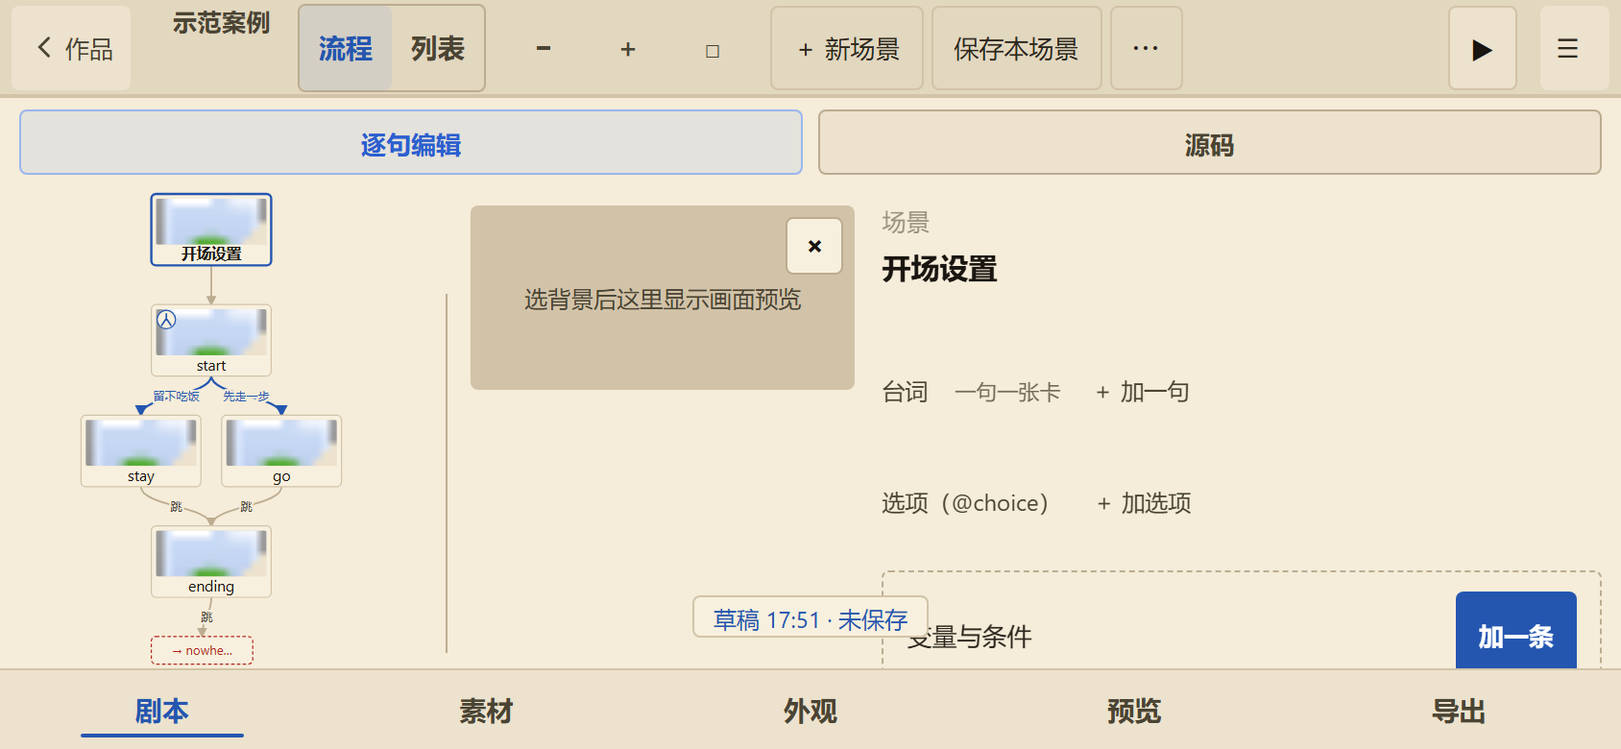
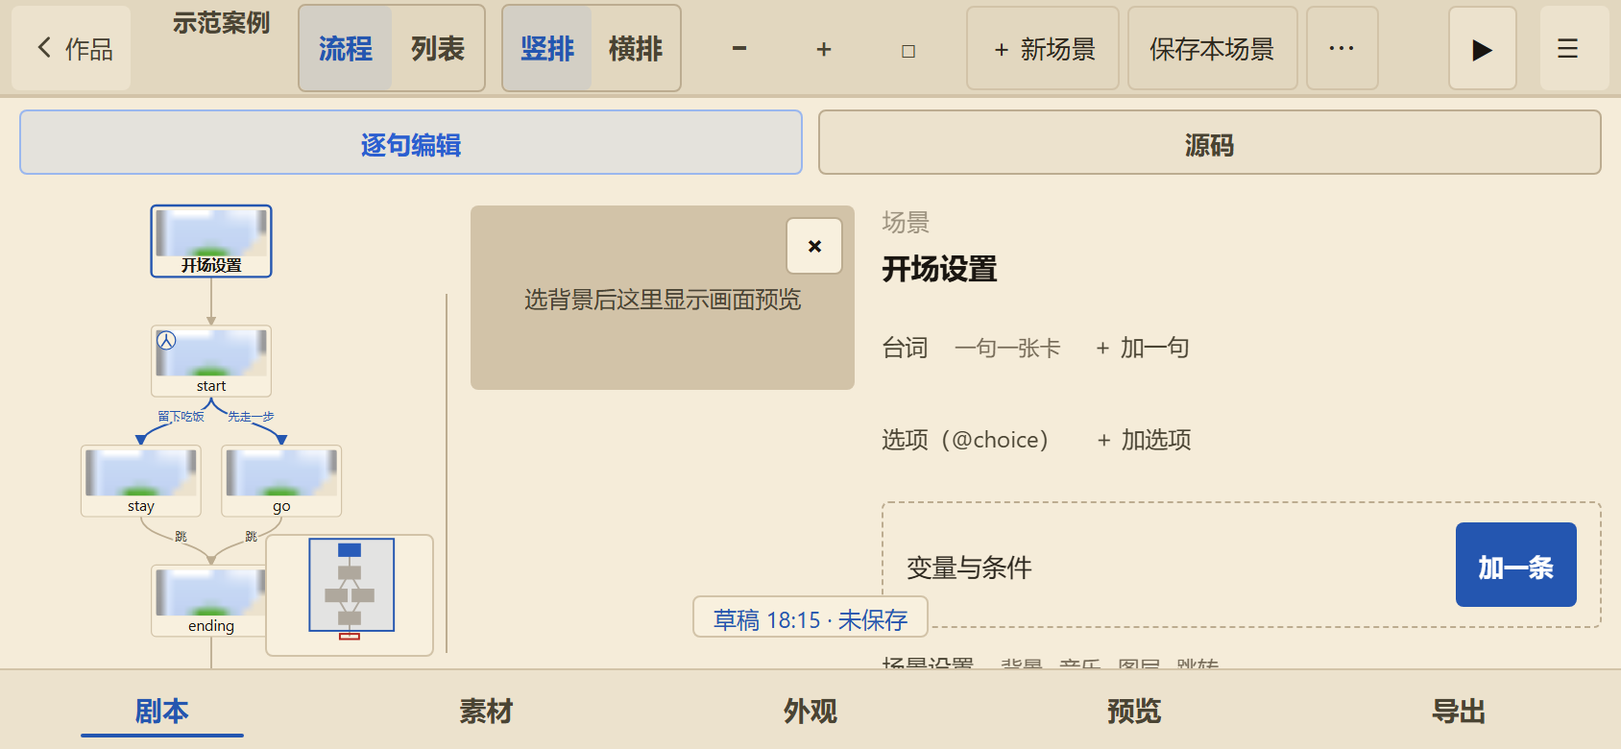
P267 横屏剧本页：流程图可竖排/横排、加右下角小总览、正文行距收紧（v1.2.67）
用户原话：「调整距离，并且蓝图可以竖着可以横着，在再来一个小的总览去寻找」
「甚至可以把做左边的每一个变成横着或竖着的点线图，场景和 start 平行」。

- 方向：仓内 localStorage `myonl:off:graphOri:v1`（=h 才是横排，默认竖排），
  顶栏「竖排｜横排」分段与「流程｜列表」同一套边框/选中态；换方向清缓存重看全局。
- 两轴几何：竖排层往下、同层往右；横排层往右、同层往下。层方向边长与同层步长拆成
  step / pitch 两个量，层距 = rank*(step+LA)；画线改用 al/ac/ll/lc/pt 四个取端口函数。
- 竖排贴顶：graphFit 在竖排时 y 固定 12，第一排节点与右侧「场景」两字齐平。
- 小总览：88×64，右侧下角，先画节点中心连线再画节点块，最后取景框；图整个在栏里
  就不显示；手指落在总览上是导航（把点到的地方挪到栏中央），不算平移主图。
- 正文行距：幕名块 margin-bottom 4px / .sf-sec 6px 0 4px，「台词」区上移 26px。
- 窄横屏（<780）缩放只留「□」，双指/滚轮仍可缩放。

门禁：pytest 1585 passed / 7 skipped / exit 0（144.15s）、pyright 109=基线 exit 0、
探针 26/26 exit 0；844×390 / 700×360 / 390×844 三组尺寸 JS 异常 0、溢出审计空。

diff --git a/editor/mobile/ui_layout.js b/editor/mobile/ui_layout.js
@@ -191,14 +191,17 @@
      节点 = 一幕（上半截是这一幕的背景缩略图），线 = @jump / 选项 / 没写跳转时顺序流到下一幕；
      分支横向并排、汇合画回同一个节点、跳回前面幕的线是虚线，跳到不存在的幕是红虚线小块。
      点节点 = 进那一幕；拖动平移、双指缩放、「□」看全局。数据每次从正文现读，不另存一份。 */
-  var VIEW = "myonl:off:sceneView:v1", NW = 104, NH = 62, GW = 88, GH = 24, GX = 18, GY = 34;
+  var VIEW = "myonl:off:sceneView:v1", ORI = "myonl:off:graphOri:v1", MW = 88, MH = 64;
+  var NW = 104, NH = 62, GW = 88, GH = 24, GX = 18, GY = 42;   // GY：竖排层间距，42 是给线上的字留的
   var gT = { x: 0, y: 0, z: 1 }, gSig = "", gCount = -1, gD = null, gSvg = null, gAct = -1;
-  var gPtr = {}, gDist = 0, gPinch = 0, gDown = null;
+  var gPtr = {}, gDist = 0, gPinch = 0, gDown = null, gMini = { s: 1, ox: 0, oy: 0 };
   function escG(s) { return String(s).replace(/[&<>"]/g, function (c) { return { "&": "&amp;", "<": "&lt;", ">": "&gt;", '"': "&quot;" }[c]; }); }
   function cut(s, n) { s = String(s); return s.length > n ? s.slice(0, n - 1) + "\u2026" : s; }
   function own(o, k) { return Object.prototype.hasOwnProperty.call(o, k); }
   function graphOn() { try { return localStorage.getItem(VIEW) !== "list"; } catch (e) { return true; } }
   function graphSplit() { return shell() && window.innerWidth >= 700 && window.innerWidth > window.innerHeight; }
+  // 蓝图可以竖着走也可以横着走（用户：「蓝图可以竖着可以横着」）：默认竖排 = 层往下、同层往右；横排 = 层往右、同层往下
+  function graphHori() { try { return localStorage.getItem(ORI) === "h"; } catch (e) { return false; } }
 
   function graphData() {
     var E = window.__editor || {}, src = "";
@@ -257,10 +260,16 @@
       cnt[r] = ids.length; cw = Math.max(cw, ids.length);
       ids.forEach(function (a, c) { col[a] = c; });
     }
-    var w = cw * (NW + GX) - GX, hsh = 0;
+    var H = graphHori(), LA = H ? 56 : GY, pitch = H ? NH : NW, step = H ? NW : NH;   // LA：层间距（横排留大些给线上的字）；pitch：同层步长的边长，step：层方向上的边长
+    var w = H ? maxR * (NW + LA) + NW : cw * (NW + GX) - GX, hsh = 0;
     for (i = 0; i < src.length; i++) hsh = (hsh * 31 + src.charCodeAt(i)) | 0;
-    all.forEach(function (n, a) { n.x = (w - (cnt[rank[a]] * (NW + GX) - GX)) / 2 + col[a] * (NW + GX); n.y = rank[a] * (NH + GY); });
-    return { all: all, edges: edges, w: w, h: (maxR + 1) * NH + maxR * GY, sig: ns.length + "|" + edges.length + "|" + hsh };
+    all.forEach(function (n, a) {
+      var gw = n.ghost ? GW : NW, gh = n.ghost ? GH : NH, major = rank[a] * (step + LA);
+      var minor = (cw * (pitch + GX) - GX - (cnt[rank[a]] * (pitch + GX) - GX)) / 2 + col[a] * (pitch + GX);
+      n.x = H ? major : minor + (NW - gw) / 2; n.y = H ? minor + (NH - gh) / 2 : major;
+    });
+    return { all: all, edges: edges, w: w, h: H ? cw * (NH + GX) - GX : maxR * (NH + GY) + NH, hori: H,
+             sig: ns.length + "|" + edges.length + "|" + hsh + "|" + (H ? "h" : "v") };
   }
 
   function applyT() {
@@ -269,12 +278,29 @@
     gT.x = Math.min(Math.max(gT.x, 44 - gD.w * gT.z), W - 44);   // 怎么拖都至少留 44px 图在栏里
     gT.y = Math.min(Math.max(gT.y, 44 - gD.h * gT.z), H - 44);
     gSvg.setAttribute("transform", "translate(" + gT.x + "," + gT.y + ") scale(" + gT.z + ")");
+    var mv = document.getElementById("mMiniV"), mm = mv && mv.parentNode;
+    // 图整个都在栏里时不显示小总览；放大或拖走了才出来，框告诉你现在看的是哪一块
+    if (mm) mm.style.display = (gD.w * gT.z > W + 1 || gD.h * gT.z > H + 1) ? "" : "none";
+    if (mv) {
+      mv.setAttribute("x", gMini.ox - gT.x / gT.z * gMini.s); mv.setAttribute("y", gMini.oy - gT.y / gT.z * gMini.s);
+      mv.setAttribute("width", W / gT.z * gMini.s); mv.setAttribute("height", H / gT.z * gMini.s);
+    }
+  }
+  // 在小总览上点 / 拖：点的那个位置挪到栏中央
+  function miniNav(e) {
+    var m = document.getElementById("mMini"), box = document.getElementById("mGraph");
+    if (!m || !box || !gD) return;
+    var r = m.getBoundingClientRect(), s = gMini.s;
+    gT.x = box.clientWidth / 2 - (e.clientX - r.left - gMini.ox) / s * gT.z;
+    gT.y = box.clientHeight / 2 - (e.clientY - r.top - gMini.oy) / s * gT.z; applyT();
   }
   function graphFit() {
     if (!gD) return;
     var box = document.getElementById("mGraph"), W = box.clientWidth - 12, H = box.clientHeight - 12;
     gT.z = Math.max(0.6, Math.min(1, W / gD.w, H / gD.h));       // 不小于 0.6：再小字就看不清了，宁可拖着看
-    gT.x = Math.max(6, (W - gD.w * gT.z) / 2); gT.y = Math.max(6, (H - gD.h * gT.z) / 2);
+    // 竖排：第一排节点贴顶，跟右边正文的「场景」两个字同一水平线（用户：「场景和 start 平行」）；横排：第一列贴左
+    gT.x = gD.hori ? 12 : Math.max(6, (W - gD.w * gT.z) / 2);
+    gT.y = gD.hori ? Math.max(6, (H - gD.h * gT.z) / 2) : 12;
     applyT();
   }
   function zoomAt(px, py, f) {
@@ -292,23 +318,30 @@
     gSig = d.sig + "|" + gAct; gD = d;
     var W = box.clientWidth, H = box.clientHeight; if (!W || !H) return;
     var E = window.__editor || {}, act = gAct, h = [];
+    var H = d.hori;   // 「层方向」= 竖排的 y / 横排的 x；「横方向」= 另一个。下面的函数都按这两个轴说话
+    function al(n) { return H ? n.x : n.y; }                                   // 层方向起点
+    function ac(n) { return H ? n.y : n.x; }                                   // 横方向起点
+    function ll(n) { return n.ghost ? (H ? GW : GH) : (H ? NW : NH); }          // 层方向长度
+    function lc(n) { return n.ghost ? (H ? GH : GW) : (H ? NH : NW); }          // 横方向长度
+    function pt(a, b) { return H ? a + " " + b : b + " " + a; }
     var mk = 'viewBox="0 0 6 6" refX="5" refY="3" markerWidth="6" markerHeight="6" orient="auto"><path d="M0 0L6 3L0 6z"/></marker>';
     h.push('<svg><defs><marker id="mga" ' + mk + '<marker id="mgb" ' + mk +
       '<clipPath id="mgc"><rect x="4" y="4" width="96" height="40" rx="2"/></clipPath></defs><g id="mGraphView">');
     d.edges.forEach(function (e) {
-      var a = d.all[e.from], b = d.all[e.to], bw = b.ghost ? GW : NW, bh = b.ghost ? GH : NH, p;
-      var lx, ly, an = "middle";   // 线上的字：选项写选项原文，@jump 写「跳」，顺序流不写字
-      if (e.back) {   // 跳回前面：从源头右腰绕出去，落回目标右腰
-        var sx = a.x + NW, sy = a.y + NH / 2, ex = b.x + bw, ey = b.y + bh / 2;
-        p = "M" + sx + " " + sy + "C" + (sx + 36) + " " + sy + " " + (ex + 36) + " " + ey + " " + ex + " " + ey;
-        lx = (sx + ex) / 2 + 20; ly = (sy + ey) / 2 + 4;
+      var a = d.all[e.from], b = d.all[e.to], p, l1, l2, an = "middle";
+      // 线上的字：选项写选项原文，@jump 写「跳」，顺序流不写字
+      if (e.back) {   // 跳回前面：从源头外侧绕出去，落回目标外侧
+        var s1 = al(a) + ll(a) / 2, s2 = ac(a) + lc(a), e1 = al(b) + ll(b) / 2, e2 = ac(b) + lc(b), bu = 36;
+        p = "M" + pt(s1, s2) + "C" + pt(s1, s2 + bu) + " " + pt(e1, e2 + bu) + " " + pt(e1, e2);
+        l1 = (s1 + e1) / 2; l2 = (s2 + e2) / 2 + bu * 0.86;
       } else {
-        var x1 = a.x + NW / 2, y1 = a.y + NH, x2 = b.x + bw / 2, y2 = b.y, my = (y1 + y2) / 2;
-        p = "M" + x1 + " " + y1 + "C" + x1 + " " + my + " " + x2 + " " + my + " " + x2 + " " + y2;
-        // 上下正对着的两个节点，字写在箭头右边（写在线上会盖住箭头）；分叉的线写在线的中点
-        if (Math.abs(x1 - x2) < 2) { lx = x1 + 5; an = "start"; } else lx = (x1 + x2) / 2;
-        ly = my + 4;
+        var f1 = al(a) + ll(a), f2 = ac(a) + lc(a) / 2, t1 = al(b), t2 = ac(b) + lc(b) / 2, mm = (f1 + t1) / 2;
+        p = "M" + pt(f1, f2) + "C" + pt(mm, f2) + " " + pt(mm, t2) + " " + pt(t1, t2);
+        // 正对着的两个节点：字写在线的下 / 右侧（写在线上会盖住箭头）；分叉的线写在线的中点
+        if (Math.abs(f2 - t2) < 2) { l1 = H ? mm : f2 + 5; l2 = H ? f2 + 14 : mm + 4; if (!H) an = "start"; }
+        else { l1 = mm; l2 = (f2 + t2) / 2 + 4; }
       }
+      var lx = H ? l1 : l2, ly = H ? l2 : l1;
       h.push('<path class="m-ge ' + e.k + (e.back ? " back" : "") + '" d="' + p + '" marker-end="url(#' + (e.k === "choice" ? "mgb" : "mga") + ')"/>' +
         (e.txt && !e.back ? '<text class="m-gel ' + e.k + '" x="' + lx + '" y="' + ly + '" text-anchor="' + an + '">' + escG(cut(e.txt, 6)) + "</text>" : "") +
         (e.back ? '<text class="m-gel back" x="' + lx + '" y="' + ly + '" text-anchor="middle">' + escG(cut(e.txt || "", 4)) + "</text>" : ""));
@@ -329,6 +362,19 @@
         (n.choice ? '<circle class="m-gn-fork" cx="13" cy="13" r="8"/><path class="m-gn-forkp" d="M13 8v4M9 18l4-6M17 18l-4-6"/>' : "") + "</g>");
     });
     h.push("</g></svg>");
+    // 小总览（用户：「再来一个小的总览去寻找」）：整张图缩成一块，只画节点块 + 一个取景框；点上头就把视图挪过去
+    gMini.s = Math.max(0.04, Math.min((MW - 8) / d.w, (MH - 8) / d.h, 1)); gMini.ox = (MW - d.w * gMini.s) / 2; gMini.oy = (MH - d.h * gMini.s) / 2;
+    h.push('<svg id="mMini" viewBox="0 0 ' + MW + " " + MH + '" aria-label="总览">');
+    d.edges.forEach(function (e) {   // 先画线：小总览里也要看得出谁连着谁（点线图）
+      var a = d.all[e.from], b = d.all[e.to], x1 = gMini.ox + (a.x + NW / 2) * gMini.s, y1 = gMini.oy + (a.y + NH / 2) * gMini.s;
+      var x2 = gMini.ox + (b.x + (b.ghost ? GW : NW) / 2) * gMini.s, y2 = gMini.oy + (b.y + (b.ghost ? GH : NH) / 2) * gMini.s;
+      h.push('<line class="mm-e' + (e.back ? " back" : "") + '" x1="' + x1.toFixed(1) + '" y1="' + y1.toFixed(1) + '" x2="' + x2.toFixed(1) + '" y2="' + y2.toFixed(1) + '"/>');
+    });
+    d.all.forEach(function (n, a) {
+      h.push('<rect class="mm-n' + (a === act ? " on" : "") + (n.ghost ? " ghost" : "") + '" x="' + (gMini.ox + n.x * gMini.s).toFixed(1) +
+        '" y="' + (gMini.oy + n.y * gMini.s).toFixed(1) + '" width="' + ((n.ghost ? GW : NW) * gMini.s).toFixed(1) + '" height="' + ((n.ghost ? GH : NH) * gMini.s).toFixed(1) + '"/>');
+    });
+    h.push('<rect id="mMiniV"/></svg>');
     box.innerHTML = h.join(""); gSvg = box.querySelector("#mGraphView");
     if (gCount !== d.all.length) graphFit(); else applyT();   // 幕数变了才重新看全局，改台词不抢视角
     gCount = d.all.length;
@@ -346,7 +392,8 @@
   function bindGraph(box) {
     box.addEventListener("pointerdown", function (e) {
       if (e.button > 0) return;
-      gPtr[e.pointerId] = [e.clientX, e.clientY];
+      var onMini = !!(e.target.closest && e.target.closest("#mMini"));
+      gPtr[e.pointerId] = onMini ? [-1e6, -1e6] : [e.clientX, e.clientY];
       try { box.setPointerCapture(e.pointerId); } catch (err) {}
       if (Object.keys(gPtr).length === 1) { gDist = 0; gDown = e.target.closest ? e.target.closest(".m-gn[data-i]") : null; }
       else { gPinch = 0; gDown = null; gDist = 99; }
@@ -354,6 +401,7 @@
     });
     box.addEventListener("pointermove", function (e) {
       var p = gPtr[e.pointerId]; if (!p) return;
+      if (p[0] < -1e5) { miniNav(e); return; }   // 这根手指在小总览上
       var dx = e.clientX - p[0], dy = e.clientY - p[1], ks = Object.keys(gPtr), r = box.getBoundingClientRect();
       gPtr[e.pointerId] = [e.clientX, e.clientY];
       if (ks.length >= 2) {
@@ -378,7 +426,7 @@
     }, { passive: false });
   }
 
-  // 场景页头的「流程 | 列表」与缩放三颗，只建一次
+  // 场景页头的「流程 | 列表」「竖排 | 横排」与缩放三颗，只建一次
   function graphBar(p, on) {
     var head = p.querySelector(".cp-head"), add = document.getElementById("sceneAdd");
     if (!head || !add) return;
@@ -386,11 +434,14 @@
     if (!bar) {
       bar = document.createElement("div"); bar.id = "mGraphBar";
       bar.innerHTML = '<div class="m-gmodes"><button type="button" data-m="graph">流程</button><button type="button" data-m="list">列表</button></div>' +
+        '<div class="m-gori"><button type="button" data-o="v" aria-label="竖排">竖排</button><button type="button" data-o="h" aria-label="横排">横排</button></div>' +
         '<div class="m-gzoom"><button type="button" data-z="-" aria-label="缩小">−</button><button type="button" data-z="+" aria-label="放大">＋</button><button type="button" data-z="fit" aria-label="看全局">□</button></div>';
       bar.addEventListener("click", function (e) {
         var b = e.target.closest ? e.target.closest("button") : null; if (!b) return;
         var m = b.getAttribute("data-m");
         if (m) { try { localStorage.setItem(VIEW, m); } catch (err) {} graphSync(); return; }
+        var o = b.getAttribute("data-o");
+        if (o) { try { localStorage.setItem(ORI, o); } catch (err) {} gSig = ""; gCount = -1; renderGraph(); return; }   // 换方向 = 重新看全局
         var box = document.getElementById("mGraph"); if (!box) return;
         if (b.getAttribute("data-z") === "fit") graphFit();
         else zoomAt(box.clientWidth / 2, box.clientHeight / 2, b.getAttribute("data-z") === "+" ? 1.25 : 0.8);
@@ -398,6 +449,7 @@
       head.insertBefore(bar, add);
     }
     Array.prototype.forEach.call(bar.querySelectorAll("[data-m]"), function (b) { b.classList.toggle("on", (b.getAttribute("data-m") === "graph") === on); });
+    Array.prototype.forEach.call(bar.querySelectorAll("[data-o]"), function (b) { b.classList.toggle("on", (b.getAttribute("data-o") === "h") === graphHori()); });
   }
 
   function graphSync() {

diff --git a/editor/editor.css b/editor/editor.css
@@ -3019,7 +3019,11 @@ input[type="color"] {
   }
   html.m-shell .menubar > #mGraphBar { margin-right: 4px; }
   html.m-shell.m-chrome-on #scenePage .scn-pop { top: 6px; }
-  @media (max-width: 779px) { html.m-shell.m-chrome-on .m-gzoom [data-z="-"] { display: none; } }
+  /* 窄横屏顶栏放不下：缩放只留「□」（双指 / 滚轮仍可缩放） */
+  @media (max-width: 779px) { html.m-shell.m-chrome-on .m-gzoom [data-z="-"], html.m-shell.m-chrome-on .m-gzoom [data-z="+"] { display: none; } }
+  /* 正文行距收紧（用户：「调整距离」）：幕名与「台词」之间原来空 47px（14 + 8 + 13 + 12），横屏高度金贵 */
+  html.m-shell #scenePage .sf-scene { margin-bottom: 4px; padding-bottom: 2px; }
+  html.m-shell #scenePage .sf-sec { margin: 6px 0 4px; }
   /* 预览收起：左栏留 34px 窄条点回来，编辑独占其余宽度 */
   html.m-shell.m-stage-off #scenePage.m-detail #sceneForm { grid-template-columns: 34px minmax(0, 1fr) !important; }
   html.m-shell.m-stage-off #scenePage .sf-stage-wrap { position: relative !important; align-self: start !important; height: 96px; min-height: 0; padding: 0 !important; border-right: 1px solid var(--surface1); background: none !important; }
@@ -3033,10 +3037,15 @@ input[type="color"] {
   html.m-shell .scene-page .scene-body { position: relative; }
   html.m-shell #mGraphBar { display: flex; align-items: center; gap: 8px; }
   #mGraphBar button { height: 44px; min-width: 44px; padding: 0 9px; border: 0; border-radius: 4px; background: none; color: var(--subtext0); font-size: 14px; font-weight: 600; white-space: nowrap; }
-  #mGraphBar .m-gmodes { display: flex; border: 1px solid var(--surface1); border-radius: 4px; overflow: hidden; }
-  #mGraphBar .m-gmodes button { min-width: 48px; }
-  #mGraphBar .m-gmodes button.on { background: rgba(79, 140, 255, .1); color: var(--blue-ink); }
-  html.m-shell:not(.m-graph-on) #mGraphBar .m-gzoom { display: none; }
+  #mGraphBar .m-gmodes, #mGraphBar .m-gori { display: flex; border: 1px solid var(--surface1); border-radius: 4px; overflow: hidden; }
+  #mGraphBar .m-gmodes button { min-width: 48px; } #mGraphBar .m-gori button { min-width: 40px; }
+  #mGraphBar .m-gmodes button.on, #mGraphBar .m-gori button.on { background: rgba(79, 140, 255, .1); color: var(--blue-ink); }
+  html.m-shell:not(.m-graph-on) #mGraphBar .m-gzoom, html.m-shell:not(.m-graph-on) #mGraphBar .m-gori { display: none; }
+  /* 小总览：右下角一块，图没放大时不出 */
+  #mGraph #mMini { position: absolute; right: 6px; bottom: 6px; width: 88px; height: 64px; background: var(--card-bg); border: 1px solid var(--surface0); border-radius: 4px; }
+  #mGraph #mMini .mm-e { stroke: var(--surface1); stroke-width: 1; } #mGraph #mMini .mm-e.back { stroke-dasharray: 2 2; }
+  #mGraph #mMini .mm-n { fill: var(--surface1); } #mGraph #mMini .mm-n.on { fill: var(--blue-ink); }
+  #mGraph #mMini .mm-n.ghost { fill: none; stroke: var(--red); stroke-width: 1; } #mGraph #mMini #mMiniV { fill: rgba(79, 140, 255, .12); stroke: var(--blue-ink); stroke-width: 1; }
   html.m-shell.m-graph-on #mGraph { position: absolute; z-index: 5; left: 0; top: 0; display: block; width: var(--m-rail, 232px); height: 100%; overflow: hidden; background: var(--base); touch-action: none; }
   #mGraph svg { display: block; width: 100%; height: 100%; } #mGraph .m-gn { cursor: pointer; }
   #mGraph .m-ge { fill: none; stroke: var(--surface1); stroke-width: 1.5; } #mGraph .m-ge.choice { stroke: var(--blue-ink); stroke-width: 1.8; } #mGraph .m-ge.back { stroke-dasharray: 4 3; }

diff --git a/tests/test_p267_graph_ori.py b/tests/test_p267_graph_ori.py
@@ -1,0 +1,69 @@
+"""P267：流程图能竖排也能横排、右下角小总览、正文行距收紧。
+
+用户原话：「调整距离，并且蓝图可以竖着可以横着，在再来一个小的总览去寻找」「暂时只测试升级打包」。
+
+钉住的事（844×390 实测）：
+    1. 方向记在 localStorage（=h 才是横排），换方向重新看全局；
+    2. 竖排：层往下、同层往右；横排：层往右、同层往下。画线按「层方向 / 横方向」两个轴说话，不许再写死 x/y；
+    3. 小总览跟主图一起生成，图整个在栏里时不显示；手指落在总览上是导航，不是平移主图；
+    4. 幕名到「台词」之间收紧；窄横屏（<780）缩放只留「□」。
+"""
+
+from pathlib import Path
+
+import pytest
+
+pytestmark = [pytest.mark.unit]
+
+ROOT = Path(__file__).resolve().parents[1]
+CSS = (ROOT / "editor" / "editor.css").read_text(encoding="utf-8")
+LAYOUT = (ROOT / "editor" / "mobile" / "ui_layout.js").read_text(encoding="utf-8")
+
+
+def _block() -> str:
+    start = CSS.index("/* 横屏（≥700 宽）剧本页")
+    end = CSS.index("\n}\n", start) + 2
+    return CSS[start:end]
+
+
+def test_orientation_is_remembered_and_refits():
+    assert 'ORI = "myonl:off:graphOri:v1", MW = 88, MH = 64;' in LAYOUT
+    assert 'return localStorage.getItem(ORI) === "h";' in LAYOUT
+    assert "if (o) { try { localStorage.setItem(ORI, o); } catch (err) {} gSig = \"\"; gCount = -1; renderGraph(); return; }" in LAYOUT
+    assert 'data-o="v" aria-label="竖排">竖排</button><button type="button" data-o="h" aria-label="横排">横排</button>' in LAYOUT
+
+
+def test_layout_and_edges_speak_in_two_axes():
+    # 落点：竖排层往下 / 横排层往右
+    assert "n.x = H ? major : minor + (NW - gw) / 2; n.y = H ? minor + (NH - gh) / 2 : major;" in LAYOUT
+    assert "major = rank[a] * (step + LA)" in LAYOUT
+    # 画线：四个取端口函数按方向换轴，不许再出现写死的 a.x + NW
+    assert "function al(n) { return H ? n.x : n.y; }" in LAYOUT
+    assert "function ac(n) { return H ? n.y : n.x; }" in LAYOUT
+    assert "function pt(a, b) { return H ? a + \" \" + b : b + \" \" + a; }" in LAYOUT
+    assert "var lx = H ? l1 : l2, ly = H ? l2 : l1;" in LAYOUT
+    # 小总览里的 node 中心可以写 a.x + NW / 2（那是按主图坐标算缩略，不归这条管）
+    main = LAYOUT[: LAYOUT.index("h.push('<svg id=\"mMini\"")]
+    assert "a.x + NW" not in main
+
+
+def test_minimap_built_with_graph_and_navigates():
+    assert "h.push('<svg id=\"mMini\" viewBox=\"0 0 ' + MW + \" \" + MH" in LAYOUT
+    assert '<rect id="mMiniV"/></svg>' in LAYOUT
+    # 图整个在栏里不显示；取景框跟着视图走
+    assert 'mm.style.display = (gD.w * gT.z > W + 1 || gD.h * gT.z > H + 1) ? "" : "none";' in LAYOUT
+    assert "function miniNav(e)" in LAYOUT
+    assert "if (p[0] < -1e5) { miniNav(e); return; }" in LAYOUT
+    assert 'var onMini = !!(e.target.closest && e.target.closest("#mMini"));' in LAYOUT
+    b = _block()
+    assert "#mGraph #mMini { position: absolute; right: 6px; bottom: 6px; width: 88px; height: 64px;" in b
+    assert "#mGraph #mMini #mMiniV {" in b
+
+
+def test_spacing_rules():
+    b = _block()
+    # 正文行距：幕名与「台词」之间收紧
+    assert "html.m-shell #scenePage .sf-scene { margin-bottom: 4px; padding-bottom: 2px; }" in b
+    assert "html.m-shell #scenePage .sf-sec { margin: 6px 0 4px; }" in b
+    # 窄横屏顶栏放不下：缩放只留「□」
+    assert "html.m-shell.m-chrome-on .m-gzoom [data-z=\"-\"], html.m-shell.m-chrome-on .m-gzoom [data-z=\"+\"] { display: none; }" in b

diff --git a/tests/test_p173_file_budget.py b/tests/test_p173_file_budget.py
@@ -53,7 +53,7 @@ FILE_BUDGET: dict[str, int] = {
     "editor/editor_shell.js": 900,   # P197b 底栏「导出」收成导出页 + 素材先关覆盖层 +9（874→883）；P258 say() 加兜底提示条 +10（887→897）——单文件版没有 window.toast，菜单里的导出提示原本全部静默
     "editor/mobile/ui_polish.js": 548,   # P188 主链路收口 + P189 结构两层（模式槽/预览浮条/空态合成/外观入口）+ P190 场景页时序兜底（场景列表重扫 + 空态恢复 + 空舞台占位 + 重扫不弹 toast）；P194 移进 mobile/，路径随搬迁改
     "editor/ui-fix.css": 325,     # P186 手机外壳 + P188 主链路样式 + P189 结构两层（浮条/场景 order/外观预览置顶）+ P190 空舞台占位（宽度显式给，否则 padding 撑高的舞台会塌成 0），新文件
-    "editor/editor.css": 3432,   # P265 流程图样式 / 预览顶边齐平 / 场景页头并进顶栏 +41；P264 横屏把预览挪到左、左栏宽度走 --m-rail、预览收起条 +12   # P179 首页去大卡后布局收口 +5；P185 顶部安全带（挖孔/侧边 cutout）+18；P190 +25 手机场景两态真正分开（#sceneForm 的 id 级 display 压过 class 级 none）+ 横屏列表不再被表单挤成 29px + 横屏右侧不留缝
+    "editor/editor.css": 3441,   # P267 小总览 / 竖横排开关 / 正文行距 +8；P265 流程图样式 / 预览顶边齐平 / 场景页头并进顶栏 +41；P264 横屏把预览挪到左、左栏宽度走 --m-rail、预览收起条 +12   # P179 首页去大卡后布局收口 +5；P185 顶部安全带（挖孔/侧边 cutout）+18；P190 +25 手机场景两态真正分开（#sceneForm 的 id 级 display 压过 class 级 none）+ 横屏列表不再被表单挤成 29px + 横屏右侧不留缝
     "engine/editor.py": 3063,   # P199a 加 /editor_lint.js /editor_find.js /i18n.js 三条路由与 serve 方法（+15，3043→3058）；P201 加 /editor_tryplay.js 路由与 _serve_tryplay_js（+5，3058→3063）；P198 新增 /editor_draft.js 路由与 _serve_draft_js（+5，3038→3043）；P184b asset_thumb.js 静态路由 +1；P188 ui_polish.js 路由 +1
     "engine/parser.py": 1080,
 }

diff --git a/tests/test_p258_budget_gaps.py b/tests/test_p258_budget_gaps.py
@@ -36,7 +36,7 @@ HOT_FILES: dict[str, int] = {
     "editor/mobile/editor_export.js": 653,
     "editor/mobile/ui-layout.css": 647,
     "editor/mobile/home.css": 348,
-    "editor/mobile/ui_layout.js": 525,  # P265 蓝图式流程图 + 页头并进顶栏 +270（新文件接线面大，故放这里）
+    "editor/mobile/ui_layout.js": 577,  # P267 竖横排 + 小总览 +45；P265 蓝图式流程图 + 页头并进顶栏 +270（新文件接线面大，故放这里）
     "editor/mobile/editor_dialog.js": 157,
     "web/myonl-core.js": 412,
     "web/myonl-layout.js": 150,
@@ -48,7 +48,7 @@ HOT_FILES: dict[str, int] = {
 
 # 区总量：允许区内互相搬行，区总不许涨。
 AREA_CAP: dict[str, int] = {
-    "editor/mobile": 5555,
+    "editor/mobile": 5607,
     "web": 4722,
 }
 

diff --git a/engine/_version.py b/engine/_version.py
@@ -22,4 +22,4 @@ from __future__ import annotations
 # 与 git tag 完全一致（tag 去掉前缀 v）。三段的 x.y.z，不许带 rc/beta 后缀：
 # Android 的 versionName 与 exe 安装包名都直接拿它，带后缀会导致两台设备显示的
 # 版本号对不上，也违背「exe 与 apk 匹配接轨」。
-VERSION = "1.2.66"
+VERSION = "1.2.67"

diff --git a/README.md b/README.md
@@ -1,7 +1,7 @@
 # MYONL · 手机上的视觉小说编辑器
 
 [![tests](https://github.com/123456789556/myonl/actions/workflows/tests.yml/badge.svg?branch=main)](https://github.com/123456789556/myonl/actions/workflows/tests.yml)
-![Release](https://img.shields.io/badge/release-v1.2.66-blue)
+![Release](https://img.shields.io/badge/release-v1.2.67-blue)
 ![License](https://img.shields.io/badge/License-MIT-green)
 ![Platform](https://img.shields.io/badge/platform-Android%207.0%2B%20%C2%B7%20Windows%20%C2%B7%20Web-19b6a3)
 ![Offline](https://img.shields.io/badge/offline-100%25-2ea44f)
@@ -253,6 +253,7 @@ python tools/pack_apk.py --game dist/single/你的作品.html
 节点上半截是这一幕的背景缩略图；选项分叉横着并排、汇合画回同一个节点、`@jump` 跳回前面的幕是虚线、
 跳到不存在的幕是红虚线小块，线上写的字就是选项原文 —— 哪条线通向哪、哪里断了，一眼看出来。
 点节点就进那一幕；拖动平移、双指缩放，「□」看全局；想看文字清单点顶栏「列表」切回去（记住上次选的）。
+蓝图能竖着走也能横着走（顶栏「竖排｜横排」，会记住）；放大或拖远之后左栏右下角出一个小总览，点它直接跳到那一块。
 「＋新场景 / 保存本场景 / ⋯」都在顶栏那一行，场景页不再自己占一行标题；回作品只按顶栏「‹ 作品」一次。
 画面预览的顶边和正文齐平，右上角一枚 × 收起来，只留一条竖着写「预览」的窄条，点一下就回来；
 左栏宽度能拖（150–320，松手记住）。窄到 700 以下仍旧一屏一件事。
@@ -278,6 +279,10 @@ python tools/pack_apk.py --game dist/single/你的作品.html
 
 ![横屏流程图](docs/images/showcase-landscape-flow.png)
 
+切成横排、放大之后，右下角的小总览框出来说明现在看的是哪一段：
+
+![横屏流程图-横排](docs/images/showcase-landscape-flow-h.png)
+
 预览收起之后，正文拿走全部宽度（左边那条竖着写「预览」的窄条就是入口）；点顶栏「列表」切回文字清单：
 
 ![横屏剧本页-预览收起](docs/images/showcase-landscape-preview-off.png)
@@ -292,9 +297,9 @@ python tools/pack_apk.py --game dist/single/你的作品.html
 
 ## 装它
 
-**[⬇ 下载 MYONL-v1.2.66.apk](https://github.com/123456789556/myonl/releases/download/v1.2.66/MYONL-v1.2.66.apk)** · 安卓 7.0 以上 · 手机 / 折叠屏 / 平板都能用，横竖屏自适应
+**[⬇ 下载 MYONL-v1.2.67.apk](https://github.com/123456789556/myonl/releases/download/v1.2.67/MYONL-v1.2.67.apk)** · 安卓 7.0 以上 · 手机 / 折叠屏 / 平板都能用，横竖屏自适应
 
-**[⬇ 下载 MYONL-v1.2.66-editor-win.zip](https://github.com/123456789556/myonl/releases/download/v1.2.66/MYONL-v1.2.66-editor-win.zip)** · Windows 10/11 · 解压双击 `editor.exe`，不用装 Python
+**[⬇ 下载 MYONL-v1.2.67-editor-win.zip](https://github.com/123456789556/myonl/releases/download/v1.2.67/MYONL-v1.2.67-editor-win.zip)** · Windows 10/11 · 解压双击 `editor.exe`，不用装 Python
 
 装好打开就是书架，点「新建作品」开始。底部「导出」有两条出口：
 自包含 `.html`（发微信对方就能玩）和 APK（装到手机上就是一个独立 App）。
@@ -333,7 +338,7 @@ python tools/pack_apk.py --game dist/single/你的作品.html
 
 只想做游戏的话，上面那些就够了。下面是技术细节。
 
-> 全量测试当前 **1581 passed, 7 skipped、退出码 0**（2026-11-25 本机已复跑；数随版本变，以最新一次 `pytest -q` 为准）。
+> 全量测试当前 **1585 passed, 7 skipped、退出码 0**（2026-11-25 本机已复跑；数随版本变，以最新一次 `pytest -q` 为准）。
 > 界面另外有一条机器探针 `tools/ui_probe/probe_shell.py`（26 条，手机 390×844 / 横屏 844×390 / 桌面 1440×900），
 > CI 里 push 改 `editor/**`、`web/**` 就跟着跑，失败会贴出是哪一条不符并留截图 —— 之前的界面验证全在人手上，这是补上的那个洞。
 

diff --git a/docs/CHANGELOG.md b/docs/CHANGELOG.md
@@ -8,6 +8,18 @@
 
 ---
 
+## 2026-11-25 · v1.2.67
+
+**这一版只动横屏剧本页的流程图和正文行距：蓝图能竖排也能横排，右下角多了一个小总览。**
+
+- 竖排 / 横排：顶栏「竖排｜横排」点一下就换，会记住。竖排是一层层往下、分叉往右并排；横排是一层层往右、分叉往下并排。
+- 小总览：图放大了或拖远了，左栏右下角出一个小框，整张图缩成一块，框出来的就是你现在看的位置；点小框上的任意位置直接跳过去。图整个都在栏里时它不出现。
+- 行距：幕名和「台词」之间的空白收紧（标题到台词区从 47px 变 32px，台词卡整体上移 26px）。
+- 窄横屏（宽度 <780）：顶栏放不下，缩放只留「□」，双指和滚轮照常能缩放。
+- 竖屏、其余页一点没动。
+
+---
+
 ## 2026-11-25 · v1.2.66
 
 **这一版只动手机横屏的剧本页：左栏从文字清单换成流程图，场景页那一行并进顶栏，预览和正文顶边齐平。**

diff --git a/docs/版本规则.md b/docs/版本规则.md
@@ -192,6 +192,7 @@ git tag -a v1.1.0 && git push tag      # 打 tag，CI 出包
 | v1.2.64 | 横屏剧本页改「左栏场景树 + 右栏正文」（≥700 宽），正文从 127px 高变 203px；查找入口在横屏收进「⋯」 |
 | v1.2.65 | 横屏剧本页把预览挪到编辑左边、预览可收起、左栏可拖宽（150–320，记住）；竖屏不受影响 |
 | v1.2.66 | 横屏剧本页左栏换成蓝图式流程图（流程 / 列表可切、可缩放）；场景页头并进顶栏，正文从 145px 起变成 95px；预览顶边与正文齐平 |
+| v1.2.67 | 流程图可竖排可横排（记住）；放大后右下角出小总览可点着跳；幕名到台词的空白收紧（台词卡上移 26px） |
 
 > v1.2.15–v1.2.21、v1.2.29–v1.2.45 在 `CHANGELOG.md` 里没有正文条目（当时只写了 tag message，
 > 发布说明靠 Actions 的 Release body）。上面这些行的依据是 annotated tag 的 tag message，不是回忆。
